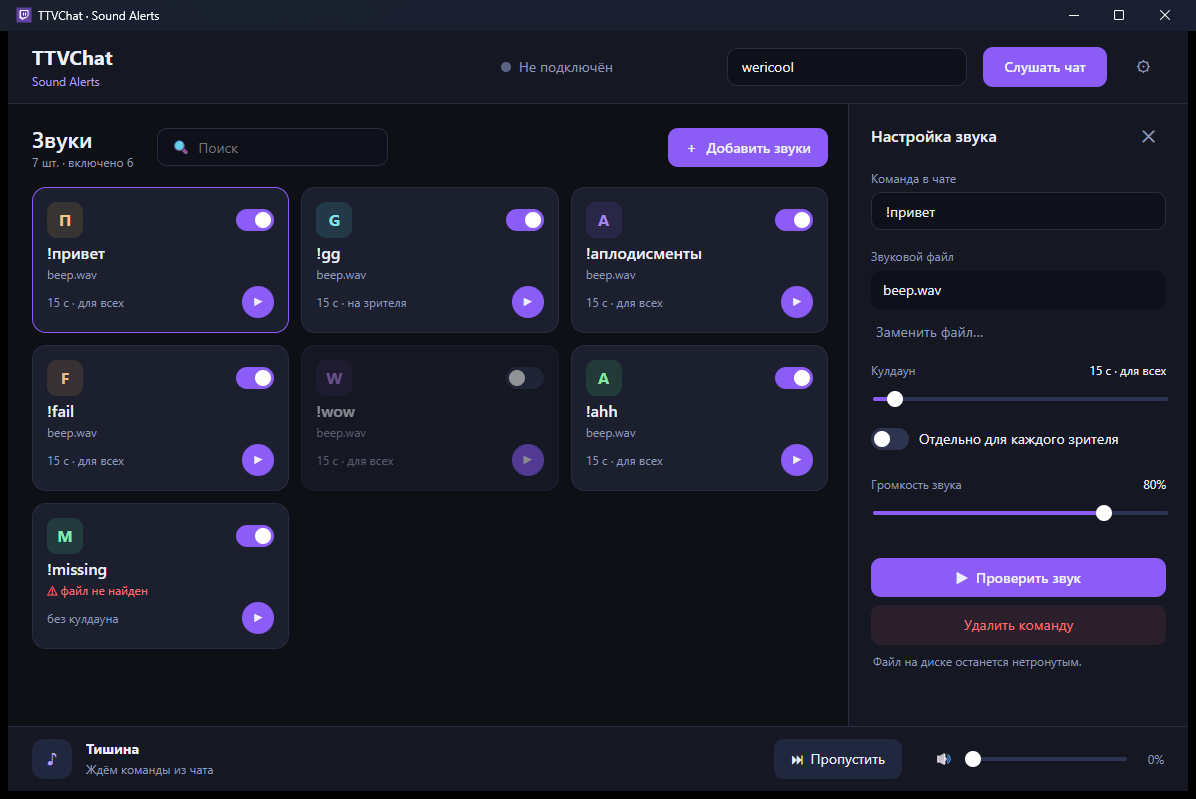
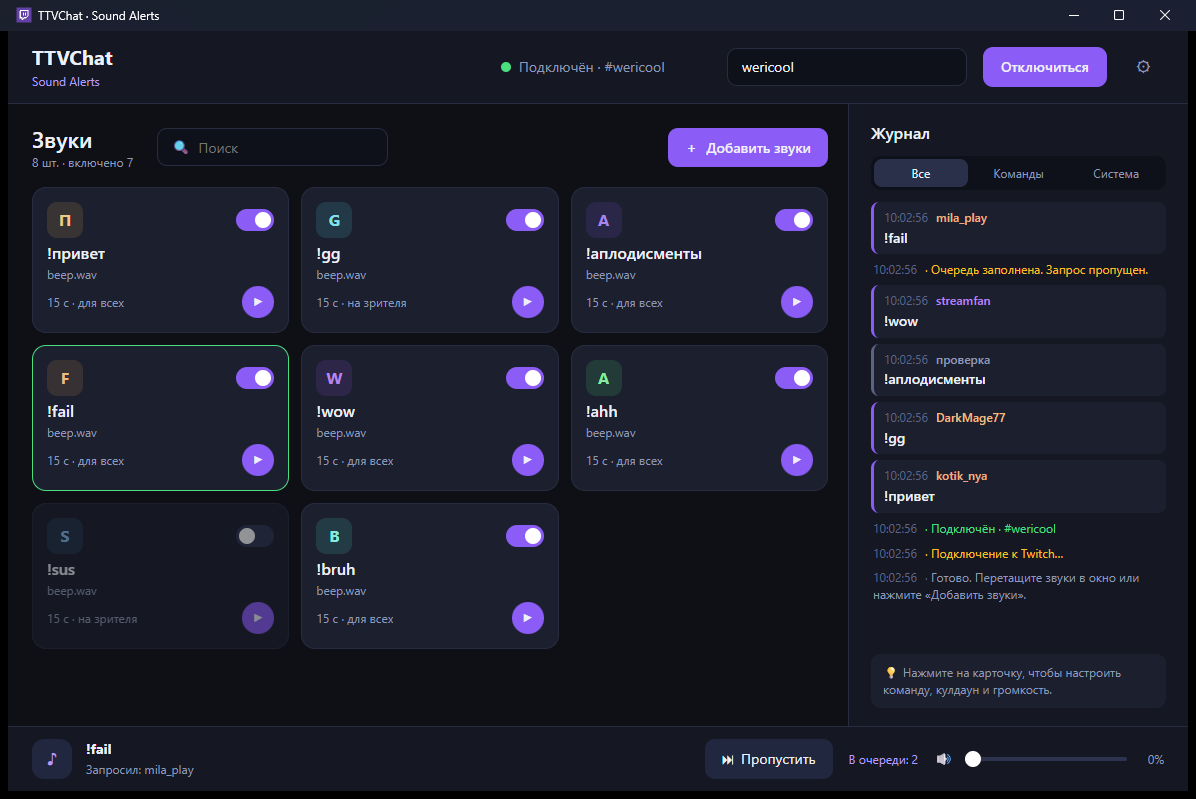
Journal: highlight viewer commands vs system messages, filter tabs; add screenshots

diff --git a/ui/index.html b/ui/index.html
@@ -79,7 +79,23 @@ aside{background:var(--surface);border-left:1px solid var(--line);min-height:0;o
 .filebox{background:var(--field);border-radius:10px;padding:9px 12px;overflow:hidden;text-overflow:ellipsis;white-space:nowrap}
 .journal{padding:18px 22px;display:flex;flex-direction:column;height:100%}.journal.hide{display:none}
 .journal h3{margin:0 0 12px;font-size:16px;font-weight:600}
-.log{flex:1;overflow-y:auto;font-size:12px;color:#cbd3e8}.log div{margin-bottom:8px;overflow-wrap:anywhere}
+.tabs{display:flex;gap:4px;background:var(--field);border-radius:10px;padding:3px;margin-bottom:12px}
+.tabs button{flex:1;min-height:28px;padding:3px 8px;font-size:12px;background:transparent;color:var(--muted);border-radius:8px;border-color:transparent}
+.tabs button.on{background:#2a2f4a;color:var(--text)}
+.log{flex:1;overflow-y:auto;font-size:12px;display:flex;flex-direction:column;gap:6px;align-content:flex-start}
+.log[data-filter=chat] .l.sys,.log[data-filter=sys] .l.chat,.log[data-filter=sys] .l.test{display:none}
+.l time{color:#5b6485;font-variant-numeric:tabular-nums;margin-right:8px}
+/* команды зрителей: карточка с цветным именем */
+.l.chat,.l.test{background:var(--card);border-left:3px solid var(--accent);border-radius:8px;padding:7px 10px}
+.l.test{border-left-color:#5b6485}
+.l .who{display:flex;align-items:center;font-size:12px;margin-bottom:2px}
+.l .who b{font-weight:600}.l .testlbl{color:var(--muted)}
+.l .cmd{font-size:14px;font-weight:600;overflow-wrap:anywhere}
+/* системные: тихие строки со значком */
+.l.sys{color:var(--muted);padding:1px 2px;overflow-wrap:anywhere}
+.l.sys span::before{content:"· ";color:#5b6485}
+.l.sys.ok{color:var(--good)}.l.sys.warn{color:var(--warn)}.l.sys.error{color:var(--bad)}
+.l.sys.ok span::before,.l.sys.warn span::before,.l.sys.error span::before{color:inherit}
 .tip{background:var(--card);border-radius:10px;padding:10px 12px;margin-top:12px;color:var(--muted);font-size:12px}
 /* dock */
 footer{display:flex;align-items:center;gap:16px;padding:12px 24px;background:var(--surface);border-top:1px solid var(--line)}
@@ -159,7 +175,10 @@ footer{display:flex;align-items:center;gap:16px;padding:12px 24px;background:var
     </div>
     <div class="journal" id="journal">
       <h3>Журнал</h3>
-      <div class="log" id="log"></div>
+      <div class="tabs" id="logTabs">
+        <button class="on" data-f="all">Все</button><button data-f="chat">Команды</button><button data-f="sys">Система</button>
+      </div>
+      <div class="log" id="log" data-filter="all"></div>
       <div class="tip">💡 Нажмите на карточку, чтобы настроить команду, кулдаун и громкость.</div>
     </div>
   </aside>
@@ -194,11 +213,26 @@ const hue = name => { let h = 7; for (const ch of name.toLowerCase()) h = (Math.
 const letter = name => (name.replace(/^!+/, '').match(/[\p{L}\p{N}]/u) || ['♪'])[0].toUpperCase();
 const cdText = c => c.CooldownSeconds === 0 ? 'без кулдауна' : `${c.CooldownSeconds} с · ${c.IsPersonalCooldown ? 'на зрителя' : 'для всех'}`;
 
-function log(msg) {
+// kind: chat (команда зрителя) · test (ручная проверка) · system · ok · warn · error
+function log(msg, kind = 'system', extra = {}) {
   const row = document.createElement('div');
-  row.textContent = new Date().toTimeString().slice(0, 8) + '  ' + msg;
+  const time = `<time>${new Date().toTimeString().slice(0, 8)}</time>`;
+  if (kind === 'chat' || kind === 'test') {
+    const user = extra.user || '', h = hue(user);
+    row.className = 'l ' + kind;
+    row.innerHTML = `<div class="who">${time}` + (kind === 'chat'
+      ? `<b style="color:hsl(${h} 75% 72%)">${esc(user)}</b>`
+      : '<b class="testlbl">проверка</b>') + `</div><div class="cmd">${esc(extra.command || '')}</div>`;
+  } else {
+    row.className = 'l sys ' + kind;
+    row.innerHTML = `${time}<span>${esc(msg)}</span>`;
+  }
   $('log').prepend(row);
-  while ($('log').children.length > 150) $('log').lastChild.remove();
+  while ($('log').children.length > 200) $('log').lastChild.remove();
+}
+function setLogFilter(f) {
+  $('log').dataset.filter = f;
+  document.querySelectorAll('#logTabs button').forEach(b => b.classList.toggle('on', b.dataset.f === f));
 }
 function toast(msg) {
   $('toast').textContent = msg; $('toast').style.display = 'block';
@@ -401,7 +435,8 @@ window.__TAURI__.webview.getCurrentWebview().onDragDropEvent(e => {
 });
 
 // ───────── События от Rust ─────────
-listen('log', e => log(e.payload));
+listen('log', e => { const p = e.payload; log(p.text, p.kind, p); });
+$('logTabs').onclick = e => { const b = e.target.closest('button'); if (b) setLogFilter(b.dataset.f); };
 listen('status', e => setStatus(e.payload.state, e.payload.text));
 listen('player', e => {
   const { playing, pending } = e.payload;

diff --git a/src-tauri/src/player.rs b/src-tauri/src/player.rs
@@ -9,6 +9,7 @@ use std::time::{Duration, Instant};
 use tauri::{AppHandle, Emitter};
 
 pub const QUEUE_LIMIT: usize = 50;
+pub const TEST_USER: &str = "Проверка";
 
 pub enum AudioMsg {
     Enqueue(SoundCommand, String),
@@ -36,9 +37,9 @@ pub fn spawn(app: AppHandle, rx: mpsc::Receiver<AudioMsg>, pending: Arc<AtomicUs
             match rx.recv_timeout(Duration::from_millis(80)) {
                 Ok(AudioMsg::Enqueue(cmd, user)) => {
                     if queue.len() >= QUEUE_LIMIT {
-                        crate::log(&app, "Очередь заполнена. Запрос пропущен.");
+                        crate::log_kind(&app, "warn", "Очередь заполнена. Запрос пропущен.");
                     } else {
-                        crate::log(&app, format!("{} · {user}", cmd.command));
+                        crate::log_command(&app, if user == TEST_USER { "test" } else { "chat" }, &user, &cmd.command);
                         queue.push_back((cmd, user));
                         dirty = true;
                     }
@@ -74,7 +75,7 @@ pub fn spawn(app: AppHandle, rx: mpsc::Receiver<AudioMsg>, pending: Arc<AtomicUs
                 dirty = true;
                 match start(&mut device, &cmd, master) {
                     Ok(player) => current = Some(Current { command: cmd, user, player, deadline: Instant::now() + Duration::from_secs(900) }),
-                    Err(e) => crate::log(&app, e),
+                    Err(e) => crate::log_kind(&app, "error", e),
                 }
             }
             if dirty {

diff --git a/src-tauri/src/main.rs b/src-tauri/src/main.rs
@@ -25,8 +25,18 @@ pub struct Shared {
     pub connection: Mutex<Option<tauri::async_runtime::JoinHandle<()>>>,
 }
 
+/// Запись журнала: `system` / `ok` / `warn` / `error` — служебные сообщения.
+pub fn log_kind(app: &AppHandle, kind: &str, message: impl Into<String>) {
+    let _ = app.emit("log", serde_json::json!({ "kind": kind, "text": message.into() }));
+}
+
 pub fn log(app: &AppHandle, message: impl Into<String>) {
-    let _ = app.emit("log", message.into());
+    log_kind(app, "system", message);
+}
+
+/// Команда от зрителя (`chat`) или ручная проверка (`test`).
+pub fn log_command(app: &AppHandle, kind: &str, user: &str, command: &str) {
+    let _ = app.emit("log", serde_json::json!({ "kind": kind, "user": user, "command": command }));
 }
 
 #[derive(Serialize)]
@@ -67,7 +77,7 @@ fn set_master(state: State<Shared>, volume: f64) {
 
 #[tauri::command]
 fn play_test(state: State<Shared>, command: SoundCommand) {
-    let _ = state.audio.lock().unwrap().send(AudioMsg::Enqueue(command, "Проверка".into()));
+    let _ = state.audio.lock().unwrap().send(AudioMsg::Enqueue(command, player::TEST_USER.into()));
 }
 
 #[tauri::command]

diff --git a/src-tauri/src/twitch.rs b/src-tauri/src/twitch.rs
@@ -1,4 +1,4 @@
-use crate::{log, player::{AudioMsg, QUEUE_LIMIT}, Shared};
+use crate::{player::{AudioMsg, QUEUE_LIMIT}, Shared};
 use futures_util::{SinkExt, StreamExt};
 use serde_json::json;
 use std::sync::atomic::Ordering;
@@ -9,7 +9,7 @@ use tokio_tungstenite::tungstenite::Message;
 fn status(app: &AppHandle, state: &str, text: impl Into<String>) {
     let text = text.into();
     let _ = app.emit("status", json!({ "state": state, "text": text }));
-    log(app, text);
+    crate::log_kind(app, state, text);
 }
 
 /// Анонимное чтение чата с переподключением и нарастающей паузой.

diff --git a/README.md b/README.md
@@ -12,12 +12,17 @@
 
 - Карточки звуков: включение, проверка ▶, поиск.
 - **Перетащите файлы или целую папку в окно** — для каждого файла команда создастся автоматически (`Мой Звук.mp3` → `!мой_звук`), настроить её можно позже.
+- **Журнал**: команды зрителей выделены карточками с цветным именем, ручные проверки и системные сообщения — тихими строками; фильтр «Все / Команды / Система».
 - Настройка справа: команда, кулдаун (общий или на каждого зрителя), громкость звука, замена файла.
 - Очередь (до 50 запросов), пропуск, очистка, общая громкость.
 - Сворачивание в трей, один экземпляр приложения.
 - Импорт настроек из версии 1.2 (`Resources/config.json`) и экспорт.
 
 Форматы: MP3, WAV, M4A, AAC, OGG, FLAC. WMA не поддерживается.
+
+## Настройка звука
+
+![Настройка звука](docs/editor.png)
 
 ## Использование
 
